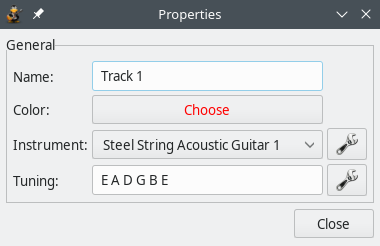
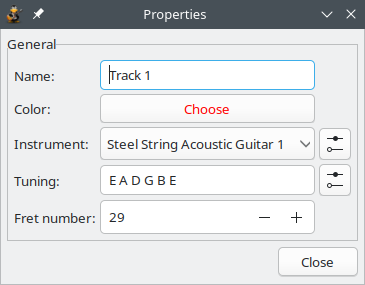
update doc
- max fret number per track is now configurable
- tempo base duration is now configurable
- explicit constraint added for developers, to avoid unit test errors

Changed region(s): [[0.0, 0.0, 1.0, 1.0]]

diff --git a/desktop/TuxGuitar/share/help/detail_composition_track.html b/desktop/TuxGuitar/share/help/detail_composition_track.html
@@ -56,7 +56,7 @@
     <img src="images/composition.png" />
     <p>A time signature must be defined for each song. Usually it is 4/4, but sometimes it has some different value (3/4 for waltz, 7/8, etc.). Time signature applies for all the tracks. It can be changed in the middle of the song - when you change the value, the time signature will be changed <em>from the current cursor position until the end</em>.</p>
     <p>Clicking on the icon with the "<strong>4/4</strong>" graphic or the menu entry <strong>Composition → Time Signature</strong> will bring up the time signature dialog, which is pretty straight-forward. You have a separate pulldown menu for each half of the time signature, as well as a "Apply this Time Signature to the end" check box. TuxGuitar supports multiple time signature changes throughout the song, and much like tempo changes, they are as easy to create as clicking the 4/4 icon and setting a new time signature in the measure where you wish it to change. Checking the "Apply this Time Signature to the end" box will cause your newly-selected time signature to continue either to the end of the song, or until you manually change the time signature in any of the following measures. Unchecking the "Apply this Time Signature to the end" box will cause the new time signature to span only the measure you add it to, after which it will automatically reset to the time signature used by the previous measure.</p>
-    <p>Each song also has a <strong>Tempo</strong>. It indicates how many beats (1/4 notes) the song has in a minute - it is marked in BPM’s - Beats Per Minute. New songs in TuxGuitar default to 120 BPM, but you can set your own tempo to anything between 30-320 BPM. The tempo applies for all the tracks in the song. The tempo set in the first measure will be the default tempo either throughout the song, or until you set another tempo in any of the following measures. When you change the value, tempo will be changed for <em>the whole song</em>, <em>to the end of the song</em> or <em>to the next tempo marker</em>, depending on the selected check box.</p>
+    <p>Each song also has a <strong>Tempo</strong>. It indicates how many beats the song has in a minute - it is marked in BPM’s - Beats Per Minute. Most of the times one beat is defined by a quarter, but you can set the beat duration to another value if needed. New songs in TuxGuitar default to 120 BPM, but you can set your own tempo to anything between 30-320 BPM. The tempo applies for all the tracks in the song. The tempo set in the first measure will be the default tempo either throughout the song, or until you set another tempo in any of the following measures. When you change the value, tempo will be changed for <em>the whole song</em>, <em>to the end of the song</em> or <em>to the next tempo marker</em>, depending on the selected check box.</p>
     <p>The <strong>Clef</strong> affects the song display in scores. Clefs are used to mark the specific pitch of the note, so all other notes’ pitch can be determined. Clef is placed on the beginning of the scores. There are three types of clefs supported in TuxGuitar: treble (default), bass, alto and tenor, which are the most usual clefs. Custom clefs are not supported. Clef can be changed in the middle of the song - when it’s changed the scores display changes from that position and further.</p>
     <p>The <strong>Key Signature</strong> affects the way the notes are written in scores. They represent the current scale the song is written in, so there’s no need to constantly write <em>sharp</em> and <em>flat</em> marks. When you choose to change the key signature, a dialog appears with all available key signatures. <strong>Natural</strong>, for example, represents the C-major, <strong>one flat</strong> represents F-major, etc.</p>
     <p><strong>Triplet Feel</strong> (also: <em>shuffle</em> or <em>swung</em> notes) is a rhythmic pattern in which the duration of the first note in a pair is augmented and that of the second is diminished. This effect is often used in jazz/swing and blues music. TuxGuitar triplet feel divides the note par in 2:1 ratio. <em>Triplet 8th</em> divides a pair of 1/8 notes and <em>Triplet 16th</em> divides a pair of 1/16 notes into 2:1 ratio.</p>
@@ -91,7 +91,7 @@
     <p>First you have to select the measure where lyrics start. When you type text, it starts below the first note in the measure you have set, and after each <em>space</em> or <em>enter</em> key, the next word is displayed below the next <em>note</em>. Pauses are ignored. When you type text below every note in a measure, the text automatically moves to the next measure.</p>
     <p>If you want to have some notes without a text below, you should put more <em>space</em> characters.</p>
     <h3 id="track_properties">Track Properties</h3>
-    <p>Track <strong>Properties</strong> are very important and should be adjusted for each track.</p>
+    <p>Track <strong>Properties</strong> are very important and should be adjusted for each track. Double-click on a track in tracks table to open corresponding dialog.</p>
     <img src="images/track_properties.png" />
     <h4>Name and color</h4>
     <p>Whatever name you type in is what will show up in the track list. You can also set the color the track will display in the track list.</p>

diff --git a/desktop/TuxGuitar/share/help/editing_track.html b/desktop/TuxGuitar/share/help/editing_track.html
@@ -70,7 +70,7 @@
     <p>Arrows up and down navigate you through the strings in tablature editor.</p>
     <h3 id="writing_numbers">Writing numbers</h3>
     <img src="images/typing.png" />
-    <p>The <strong>Tablature Editor</strong> is represented by the number of the strings the instrument possesses. Each line is a string - when you type a number on a string <strong>[0 ... 29]</strong> editor puts on that string a note which is heard if you press a string on typed fret. The note has selected duration and dynamics you can modify afterwards.</p>
+    <p>The <strong>Tablature Editor</strong> is represented by the number of the strings the instrument possesses. Each line is a string - when you type a number on a string <strong>[0 ... 29]</strong> editor puts on that string a note which is heard if you press a string on typed fret. The note has selected duration and dynamics you can modify afterwards. Refer to <strong><a href="detail_composition_track.html#track_properties">track properties dialog</a></strong> if you want to change number of frets.</p>
     <p>If you navigate to an existing note (written as a number) and press Shift+(left or right) you will increase/decrease the pitch (fret) on the current string. If you press Shift+(up or down) you will move the fret value to the string up or down.</p>
     <h3 id="clicking_on_the_scores">Clicking on the scores</h3>
     <p>To be able to insert notes by clicking on the scores, you should be in the <strong>Score Edition Mode</strong> (you can change mode in the <strong>Edit</strong> menu). When Score Edition Mode is enabled, you can check and uncheck the <strong>Sharp/Flat mode</strong> (in <strong>Edit</strong> menu, also) by which you can insert sharp notes.</p>

diff --git a/doc/contribute.md b/doc/contribute.md
@@ -143,7 +143,7 @@ In the next step, you will probably only **see the master branch. It has to been
 
 <img src="images/contribute/eclipse-git-clone-step2.png" width="50%" alt="Git Clone Step 2, Select branches">
 
-As a last step, you have to choose where on your local drive the repo should be placed. In my case, I created a folder named "git" in my Eclipse workspace.
+As a last step, you have to choose where on your local drive the repo should be placed. In my case, I created a folder named "git" in my Eclipse workspace. Make sure the absolute path to your project folder only contains ascii characters (no accented characters, etc.), else the unit tests will fail at build stage.
 
 <img src="images/contribute/eclipse-git-clone-step3.png" width="50%" alt="Git Clone Step 3, Select local folder">
 
